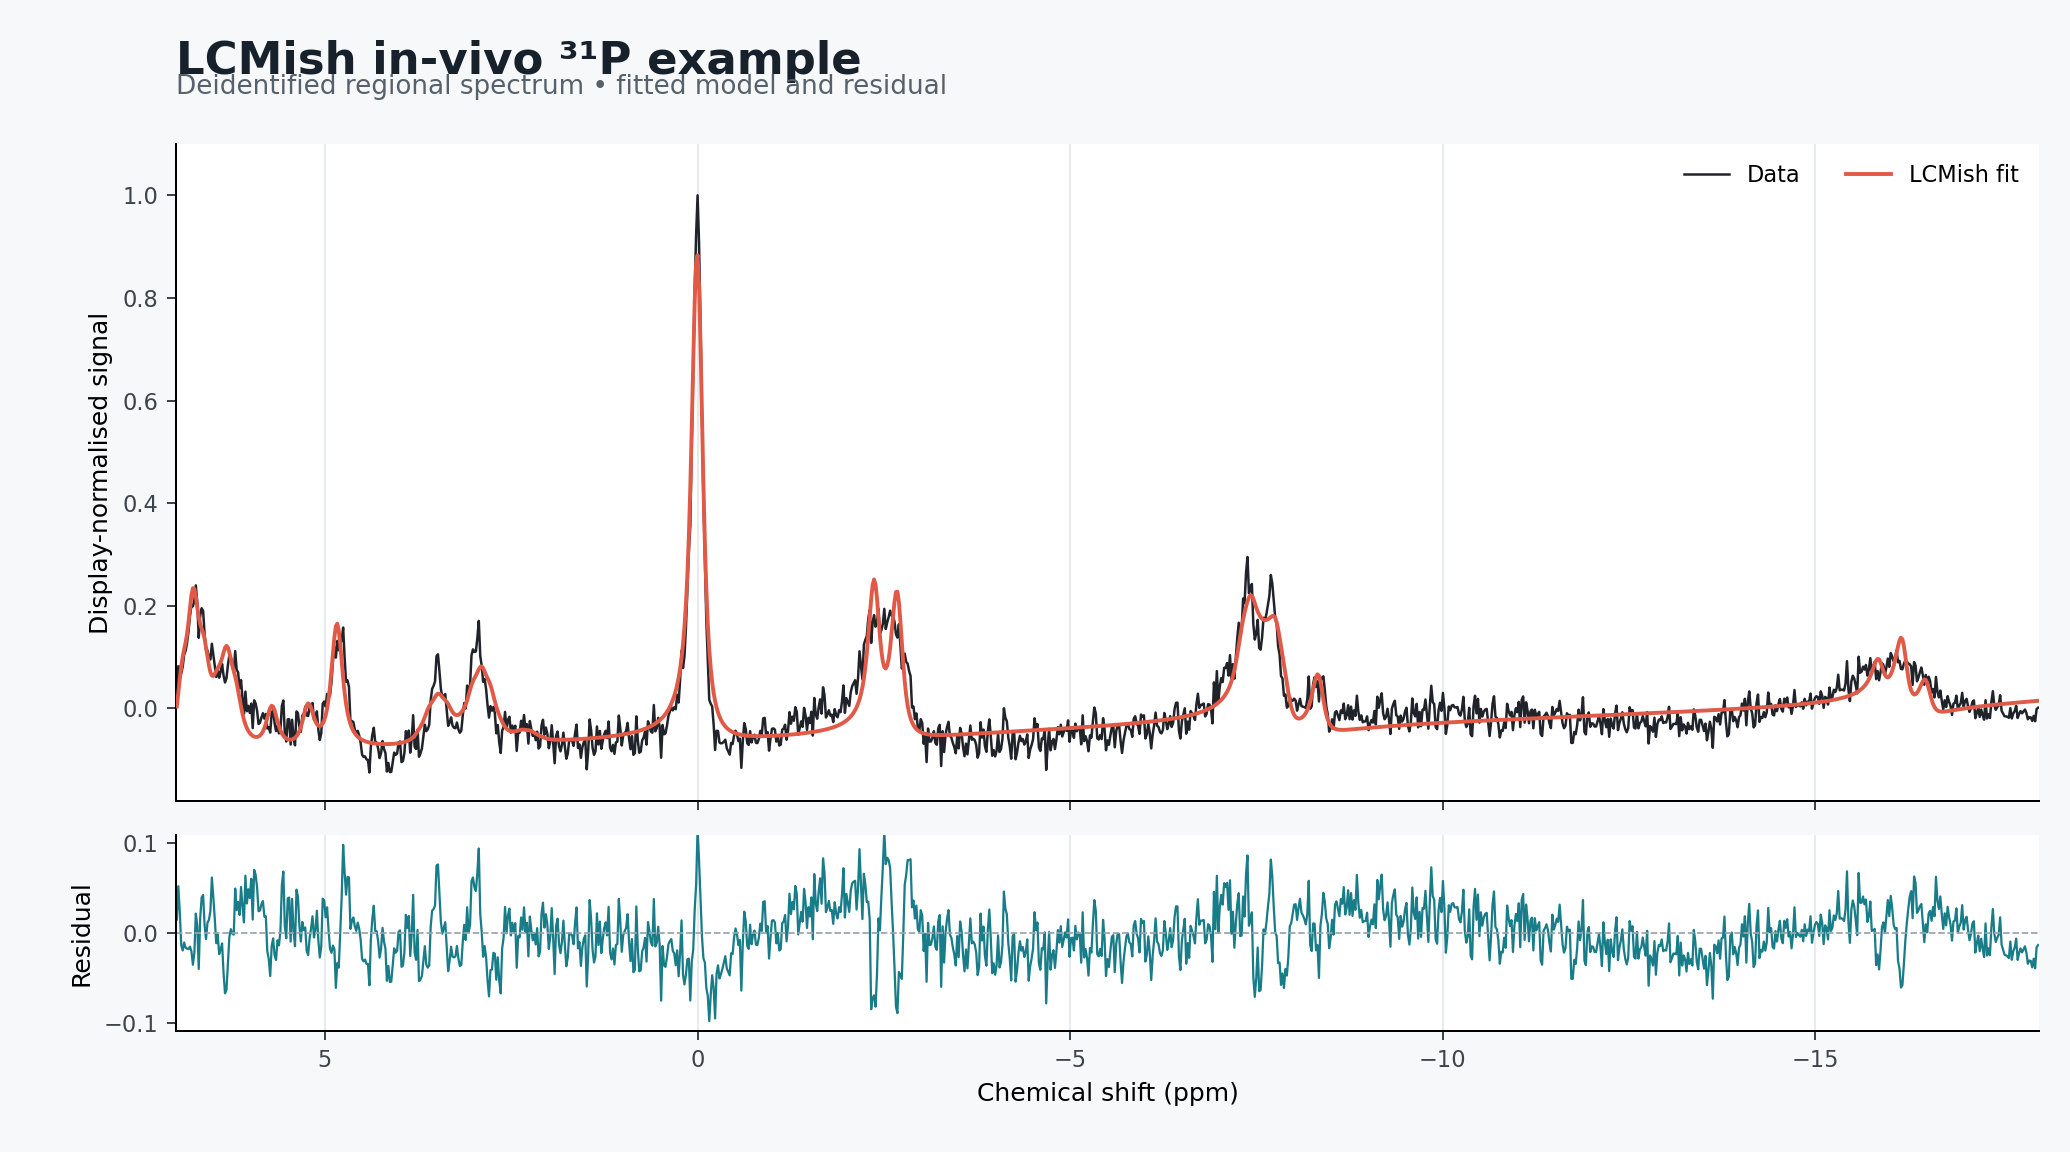
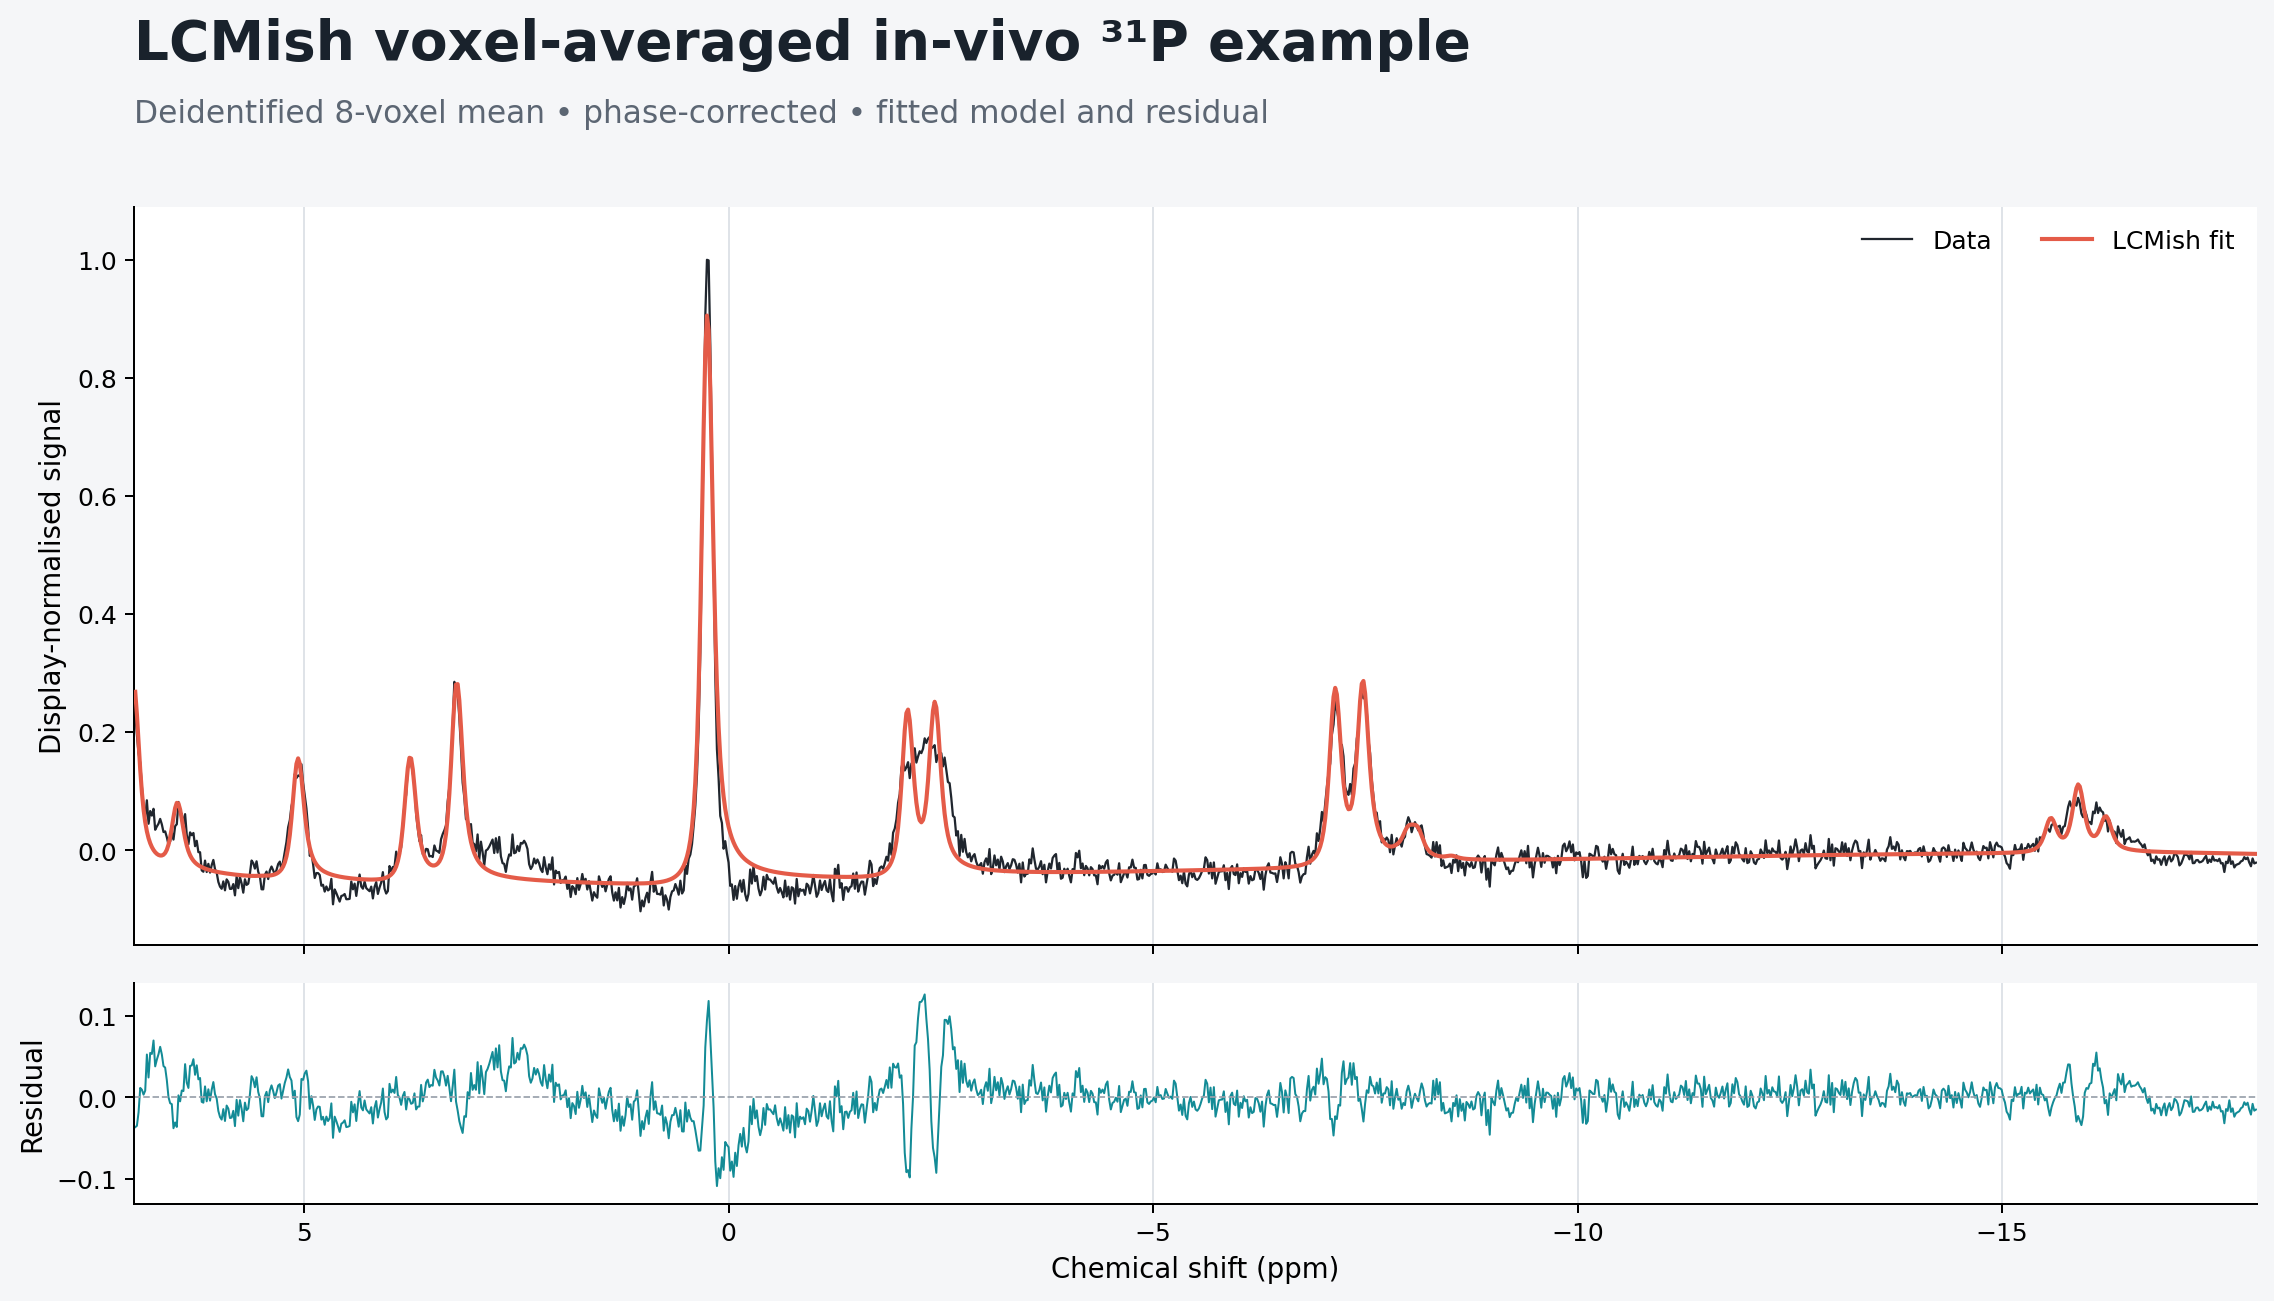
docs: use voxel-averaged in-vivo example

diff --git a/README.md b/README.md
@@ -48,11 +48,11 @@ LCMish produces a single-page fit report containing the observed spectrum, fitte
 
 *Synthetic example report generated by LCMish 0.3.0.*
 
-The following example shows an LCMish fit to a deidentified in-vivo regional ³¹P spectrum. The trace is included to illustrate the fitted model and residual produced by the current workflow; it is not presented as cross-fitter validation.
+The following example shows an LCMish fit to a deidentified, phase-corrected in-vivo ³¹P spectrum formed by averaging eight retained voxels. The trace is included to illustrate the fitted model and residual produced by the current workflow; it is not presented as cross-fitter validation.
 
-![LCMish fit and residual for a deidentified in-vivo 31P regional spectrum](docs/images/lcmish-in-vivo-example.png)
+![LCMish fit and residual for a deidentified phase-corrected eight-voxel mean in-vivo 31P spectrum](docs/images/lcmish-in-vivo-example.png)
 
-*Deidentified in-vivo example with independently display-normalised signal.*
+*Deidentified eight-voxel in-vivo mean, display-normalised to the maximum observed signal.*
 
 ## What it does *not* yet do
 

diff --git a/docs/images/README.md b/docs/images/README.md
@@ -3,6 +3,6 @@
 Images in this directory support the project README.
 
 - `lcmish-fit-report-preview.png` is a rendered preview of the synthetic example report in `examples/LCMish_synthetic_fit_summary.pdf`.
-- `lcmish-in-vivo-example.png` shows the LCMish data, fitted model and residual for a deidentified regional 31P spectrum.
+- `lcmish-in-vivo-example.png` shows the LCMish data, fitted model and residual for a deidentified, phase-corrected eight-voxel mean in-vivo 31P spectrum.
 
 No identifiable source data are included in these image files.
